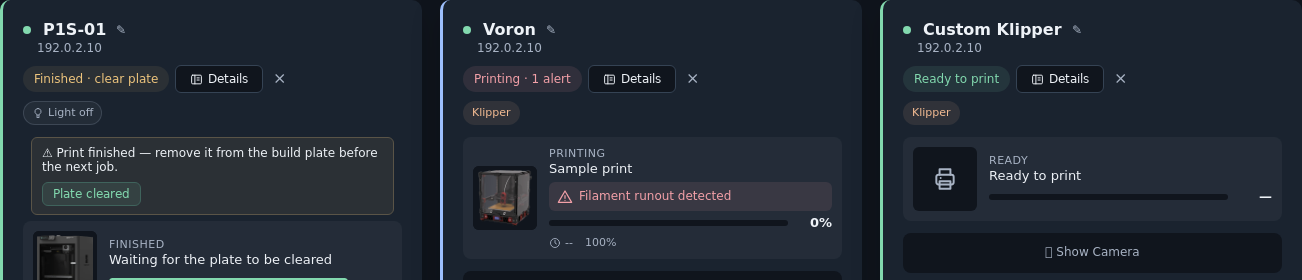
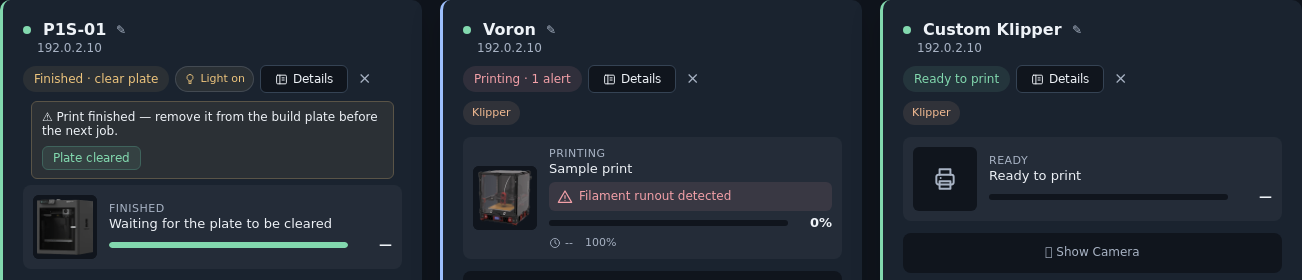
Simplify printer cards and align the light control with status

Changed region(s): [[0.0, 0.2286, 0.3072, 1.0]]

diff --git a/templates/dashboard.html b/templates/dashboard.html
@@ -3904,6 +3904,7 @@
             background: var(--surface-soft); color: var(--text-muted);
         }
         .pc-chip .ui-icon { width: 12px; height: 12px; }
+        .printer-header-actions [data-field="light"] .pc-chip { min-height: 26px; }
         .pc-chip-ok { background: var(--success-dim); color: var(--success); }
         .pc-chip-warn { background: var(--warning-dim); color: var(--warning); }
         .pc-chip-bad { background: var(--danger-dim); color: var(--danger); }
@@ -3915,8 +3916,6 @@
         .pc-chip-btn { cursor: pointer; border-color: var(--line-soft); }
         .pc-chip-btn:hover { border-color: currentColor; }
 
-        .printer-orca-port { margin: -4px 0 10px; font-size: 11px; color: var(--text-muted); }
-        .printer-orca-port span { color: var(--accent); user-select: all; cursor: text; }
 
         /* Now-printing panel */
         .pc-job {
@@ -5428,29 +5427,22 @@
 
         function renderPrinterSubline(name, p) {
             const parts = [];
-            if (p.nozzle_diameter) parts.push(`<span title="Nozzle diameter">${htmlEscape(p.nozzle_diameter)}mm</span>`);
-            if (p.nozzle_type) parts.push(htmlEscape(prettyNozzleType(p.nozzle_type)));
             if (isKlipperToolchanger(p)) parts.push(`${klipperToolchangerTools(p).length} tools`);
             if (isAdmin && p.host) parts.push(`<span class="pc-host">${htmlEscape(p.host)}</span>`);
             return parts.join(' · ');
         }
 
+        function renderPrinterLight(name, p) {
+            if (!p.connected || (p.type || 'bambulab') !== 'bambulab') return '';
+            const lightLabel = p.chamber_light ? 'Light on' : 'Light off';
+            return canControlPrinter(p)
+                ? `<button type="button" class="pc-chip pc-chip-btn${p.chamber_light ? ' pc-chip-on' : ''}" onclick="printerCmd(${jsArg(name)},'light')" title="Toggle chamber light">${iconMarkup('bulb')}${lightLabel}</button>`
+                : `<span class="pc-chip${p.chamber_light ? ' pc-chip-on' : ''}">${iconMarkup('bulb')}${lightLabel}</span>`;
+        }
+
         function renderPrinterChips(name, p) {
             const chips = [];
-            const isBambu = (p.type || 'bambulab') === 'bambulab';
             if (p.type === 'klipper') chips.push(`<span class="pc-chip pc-chip-klipper">Klipper</span>`);
-            if (p.connected && isBambu) {
-                const m = String(p.wifi_signal || '').match(/-?\d+/);
-                if (m) {
-                    const dbm = Number(m[0]);
-                    const tone = dbm >= -60 ? 'ok' : dbm >= -75 ? 'warn' : 'bad';
-                    chips.push(`<span class="pc-chip pc-chip-${tone}" title="Wi-Fi signal strength">${iconMarkup('wifi')}${dbm} dBm</span>`);
-                }
-                const lightLabel = p.chamber_light ? 'Light on' : 'Light off';
-                chips.push(canControlPrinter(p)
-                    ? `<button type="button" class="pc-chip pc-chip-btn${p.chamber_light ? ' pc-chip-on' : ''}" onclick="printerCmd(${jsArg(name)},'light')" title="Toggle chamber light">${iconMarkup('bulb')}${lightLabel}</button>`
-                    : `<span class="pc-chip${p.chamber_light ? ' pc-chip-on' : ''}">${iconMarkup('bulb')}${lightLabel}</span>`);
-            }
             if (p.staff_only) chips.push(`<span class="pc-chip pc-chip-staff" title="Only staff can use this printer">${iconMarkup('lock')}Staff only</span>`);
             if (isAdmin && p.plate_clear_required === false) chips.push(`<span class="pc-chip pc-chip-warn" title="Jobs are sent without anyone confirming the build plate is clear. Change this in Details.">${iconMarkup('alert')}Plate check off</span>`);
             return chips.join('');
@@ -5626,6 +5618,7 @@
             const safeType = escapeHtml(pType);
             const thumbKey = printerThumbKey(p);
             const subline = renderPrinterSubline(name, p);
+            const lightControl = renderPrinterLight(name, p);
             const showControls = canControlPrinter(p) || myActivePrinters.has(name);
 
             return `
@@ -5640,6 +5633,7 @@
                         </div>
                         <div class="printer-header-actions">
                             ${renderPrinterStatus(name, p)}
+                            <span data-field="light"${lightControl ? '' : ' hidden'}>${lightControl}</span>
                             ${isAuthenticated ? `<button class="btn printer-card-action" onclick="openPrinterDetails(${nameArg})" title="View printer details">${iconMarkup('details')} Details</button>` : ''}
                             ${isAdmin ? `<button class="btn printer-card-action" data-field="reconnect" onclick="openReconnect(${nameArg})" title="Scan for this printer at a new IP address"${connected ? ' style="display:none"' : ''}>Reconnect</button>` : ''}
                             ${isAdmin ? `<button class="printer-remove-btn" onclick="removePrinter(${nameArg})" title="Remove printer">&times;</button>` : ''}
@@ -5647,7 +5641,6 @@
                     </div>
                     <div class="pc-chips" data-field="chips">${renderPrinterChips(name, p)}</div>
                     <div data-field="plate">${renderPlateBanner(name, p)}</div>
-                    ${p.orca_port ? `<div class="printer-orca-port">OrcaSlicer: <span>${escapeHtml(location.hostname)}:${clampNumber(p.orca_port, 1, 65535)}</span></div>` : ''}
                     <div class="pc-job">
                         <div class="pc-thumb" data-field="thumb" data-key="${htmlEscape(thumbKey)}">${renderJobThumb(name, p)}</div>
                         <div class="pc-job-info" data-field="job-info">${renderJobInfo(name, p)}</div>
@@ -6149,6 +6142,12 @@
 
             setHtmlIfChanged(card.querySelector('[data-field="subline"]'), renderPrinterSubline(name, p));
             setHtmlIfChanged(card.querySelector('[data-field="chips"]'), renderPrinterChips(name, p));
+            const lightEl = card.querySelector('[data-field="light"]');
+            const lightControl = renderPrinterLight(name, p);
+            if (lightEl) {
+                lightEl.hidden = !lightControl;
+                setHtmlIfChanged(lightEl, lightControl);
+            }
 
             // Job panel: only reload the thumbnail when the job changes
             const thumbEl = card.querySelector('[data-field="thumb"]');
@@ -6319,7 +6318,7 @@
                     ['Connected', p.connected],
                     ['Type', p.type],
                     ['IP / Host', p.host],
-                    ['OrcaSlicer Port', p.orca_port ? `${location.hostname}:${p.orca_port}` : ''],
+                    ['OrcaSlicer Hostname', p.orca_port ? `${location.hostname}:${p.orca_port}` : ''],
                     ['Virtual IP', p.virtual_ip],
                     ['Staff Only', p.staff_only],
                 ]),
@@ -6327,7 +6326,7 @@
                     ['Serial Number', p.serial],
                     ['Access Code', p.access_code],
                     ['AMS Serial', p.ams_serial],
-                    ['Nozzle', [p.nozzle_diameter, p.nozzle_type].filter(Boolean).join(' ')],
+                    ['Nozzle', [p.nozzle_diameter ? `${p.nozzle_diameter}mm` : '', prettyNozzleType(p.nozzle_type)].filter(Boolean).join(' · ')],
                     ['Wi-Fi Signal', p.wifi_signal],
                     ['Chamber Light', p.chamber_light],
                 ]),

diff --git a/docs/printers-and-orcaslicer.md b/docs/printers-and-orcaslicer.md
@@ -9,7 +9,8 @@ Printers can be discovered automatically or added manually:
 
 ## Printer Status Button
 
-The card’s status button combines print state and printer health. Signed-in
+The card’s status button combines print state and printer health. The Bambu
+chamber-light control sits beside it on the same row. Signed-in
 viewers can click it to open **Printer Details**, including HMS codes, print
 errors, and Klipper messages. Hovering shows a summary. The separate **OK** health
 chip has been removed.
@@ -26,6 +27,9 @@ chip has been removed.
 | Offline | Disconnected; current health is unavailable |
 
 The button opens details; clearing the plate remains a separate, explicit action.
+Nozzle size/material and Wi-Fi signal strength appear under **Identity** in
+Details; the **OrcaSlicer Hostname** appears under **Connection**. These technical
+fields are omitted from the printer card.
 Unknown states are labelled **Status unknown**. Read-only anonymous views show the
 same status text without a button.
 

diff --git a/docs/overview.md b/docs/overview.md
@@ -67,8 +67,8 @@ No Klipper plugin or extra component is required beyond a standard Moonraker ins
 ## Core Features
 
 - **Multi-printer support** — BambuLab (P1S, X1C, A1) via MQTT/FTPS (LAN mode) and Klipper via Moonraker HTTP API
-- **Real-time dashboard** — Printer cards with a combined print/health status button and chips for Wi-Fi,
-  chamber light, and staff-only access, a now-printing panel (job thumbnail,
+- **Real-time dashboard** — Printer cards with a combined print/health status button, an aligned chamber-light
+  control, and staff-only badges, a now-printing panel (job thumbnail,
   progress, time remaining, finish time, layers), click-to-set temperature
   tiles, per-unit AMS blocks with remaining-filament bars, and camera feeds.
   Printers that can take a job show **Ready to print**

diff --git a/docs/screenshots.md b/docs/screenshots.md
@@ -34,6 +34,8 @@ Camera visibility and rotation are also saved per printer in the browser.
 The print state and health indicator now share one button, with actionable text
 such as **Finished · clear plate**. Reported alerts appear alongside the state.
 Click the button to open printer details; the separate **OK** chip is removed.
+The light control shares the status row. Nozzle details, the Orca address, and
+Wi-Fi strength are available in Details instead of appearing on each card.
 
 ![Combined print and health status examples](images/printer-status.png)
 

diff --git a/CHANGELOG.md b/CHANGELOG.md
@@ -7,6 +7,10 @@ changes to The Print Farm.
 
 ### Fixed
 
+- **Cleaner printer headers.** Nozzle size/material, OrcaSlicer hostname, and
+  Wi-Fi signal strength live in Details instead of taking up card space. The
+  chamber-light control now shares the status-button row and still updates live.
+
 - **Printer pictures blend into dark cards.** Removed the light picture backdrop
   in dark mode, keeping the transparent model images on the thumbnail’s dark surface.
 
